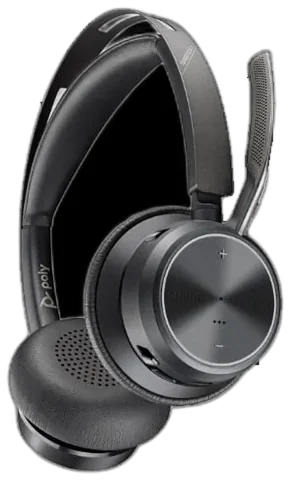
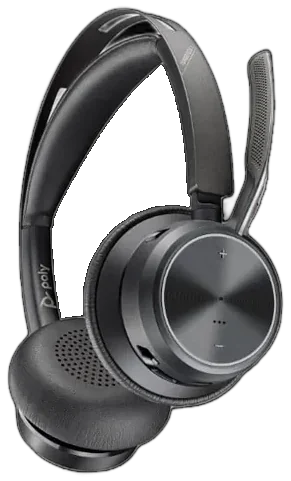
Punch enclosed head props from Voyager 4300 and Focus 2 cutouts.
Opt in hole-punch for the two Poly headset hero images so the black studio silhouette under the headband arch is transparent.

diff --git a/scripts/remove-backgrounds.py b/scripts/remove-backgrounds.py
@@ -111,6 +111,8 @@ HOLE_PUNCH: dict[str, dict[str, float]] = {
     "img-5ada38fb4a": {"min_area_pct": 0.04},  # Headset 520
     "img-bf6dfa019e": {"min_area_pct": 0.04},  # Headset 560
     "img-8cb7938ed5": {"min_area_pct": 0.04},  # Headset 730 (twin)
+    "img-da6d23e902": {"min_area_pct": 0.04},  # Voyager 4300
+    "img-e0546342cc": {"min_area_pct": 0.04},  # Voyager Focus 2
 }
 HOLE_PUNCH_BLACK_TOL = 30  # RGB.min() < this counts as "deep black"
 HOLE_PUNCH_OPAQUE_TOL = 200  # alpha >= this is "fully opaque foreground"